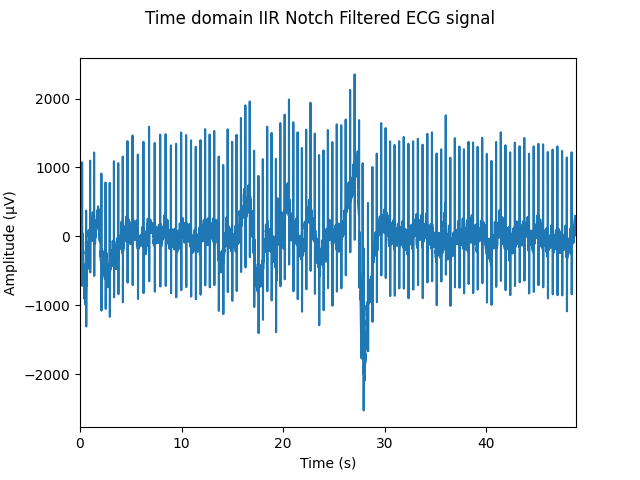
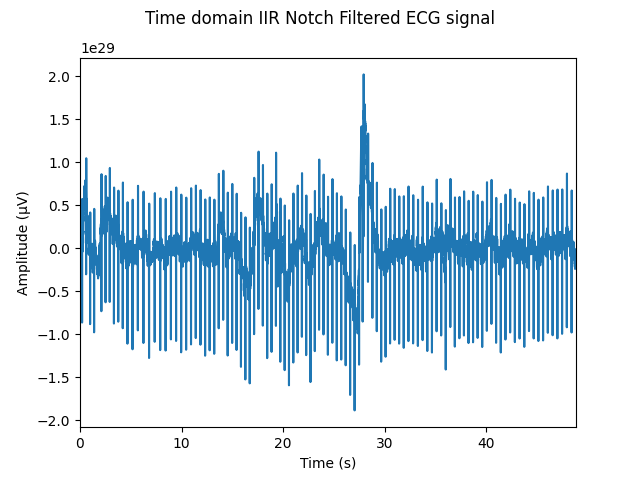
trynna get gain factor calculation to work correctly

diff --git a/main.py b/main.py
@@ -26,6 +26,10 @@ from signalPlots import *
 
 
 # Functions
+
+#
+# Get data information functions
+#
 def importData(filename):
     """Import data from a text file"""
 
@@ -65,6 +69,9 @@ def calcFreqSpectrum(samples, sample_rate):
 
 
 
+#
+# IIR filter functions
+#
 def computeIIRNotchCoefficients(notch_freq, notch_width, sampling_freq):
     """Compute and return the optimal notch filter coefficients, based on the notch frequency, the 3 dB width of the
     notch and the sampling frequency"""
@@ -95,19 +102,49 @@ def computeIIRNotchCoefficients(notch_freq, notch_width, sampling_freq):
 
 
 
-def createIIRNotchFilters(notch_freq_1, notch_freq_2, notch_width, sample_rate):
-    """Create notch filters, then combine them. The coefficients of the filters are returned"""
+def calculateGainFactor(numerator, denominator, passband_freq, sampling_freq):
+    """Calculate and return the coefficent needed to normalise the passband gain of an IIR filter to unity"""
 
-    # Create notch filters
-    numerator_1, denominator_1 = computeIIRNotchCoefficients(notch_freq_1, notch_width, sample_rate)  # Calculate notch filter coefficents for the first notch frequency
-    numerator_2, denominator_2 = computeIIRNotchCoefficients(notch_freq_2, notch_width, sample_rate)  # Calculate notch filter coefficents for the second notch frequency
+    # Calculate passband angle
+    angle = 2 * np.pi * passband_freq/sampling_freq
 
-    return numerator_1, denominator_1, numerator_2, denominator_2
+    # Initalise sum of the numerator/denominator at the passband_freq
+    numerator_sum = 0
+    denominator_sum = 0
+
+    # Calculate the value of the numerator and denominator by iterating through each tap
+    for delay_index in range(len(numerator)):
+
+        # Calculate the value of the numerator at tap
+        numerator_coeff = numerator[delay_index] # Extract numerator tap coefficent
+        numerator_sum += numerator_coeff * ((np.exp(1j * angle)) ** (-delay_index)) # Add transfer function value to numerator sum
+
+        # Calculate the value of the denominator at tap
+        denominator_coeff = denominator[delay_index] # Extract denominator tap coefficent
+        denominator_sum += denominator_coeff * ((np.exp(1j * angle)) ** (-delay_index))  # Add transfer function value to numerator sum
+
+    # Calculate gain factor
+    gain_factor = denominator_sum/numerator_sum # At unity gain: gain_factor * numerator_sum/denominator_sum = 1
+    gain_factor_real = np.real(gain_factor) # Take the real component of the gain factor
+    
+    return gain_factor_real
+
+
+
+
+def createIIRNotchFilter(notch_freq, notch_width, sample_rate):
+    """Create and return the coefficents of an IIR notch filter"""
+
+    numerator, denominator = computeIIRNotchCoefficients(notch_freq, notch_width, sample_rate)  # Calculate filter coefficents
+    gain_factor = calculateGainFactor(numerator, denominator, notch_freq, sample_rate) # Calculate gain factors needed to get unity gain in passband
+    normalised_numerator = np.array(numerator) * gain_factor  # Normalise passband of filters to unity gain
+
+    return normalised_numerator, denominator
 
 
 
 def applyIIRNotchFilters(numerator_1, denominator_1, numerator_2, denominator_2, data):
-    """Pass data through two cascaded notch filters and return the result after each filter"""
+    """Pass data through two cascaded IIR filters and return the result after each filter"""
 
     partially_filtered_data = lfilter(numerator_1, denominator_1, data) # Apply first filter to data
     filtered_data = lfilter(numerator_2, denominator_2, partially_filtered_data) # Apply second notch filter to data
@@ -127,38 +164,9 @@ def combineFilters(numerator_1, denominator_1, numerator_2, denominator_2):
 
 
 
-
-def calculateVariance(data):
-    """Calculates and returns the variance of a signal"""
-
-    # Calculate the variance of the signal X using: variance = E[X^2] - E[X]^2
-    expected_data_power = sum((np.square(data)))/len(data)  # Calculate E[X^2]
-    power_of_expected_data = np.square(sum(data)/len(data))  # Calculate E[X]^2
-    variance_data = expected_data_power - power_of_expected_data  # Calculate the variance of the data
-
-    return variance_data
-
-
-
-def calculateNoiseVariance(data, filtered_data):
-    """"Calculate the variance of the noise by comparing the filtered and unfiltered data. The variance of the noise
-    is approximated as the variance of the signal removed by the filter"""
-
-    # Turn data arrays into numpy arrays so that mathematical operations can be performed
-    np_data = np.array(data)
-    np_filtered_data = np.array(filtered_data)
-
-    # Calculate the variance of the removed noise by finding the variances of the filtered and unfiltered data
-    data_variance = calculateVariance(np_data) # Calculate the variance of the unfiltered data
-    filtered_data_variance = calculateVariance(np_filtered_data) # Calculat the variance of the filtered data
-    noise_data_variance = data_variance - filtered_data_variance # Calculate the variance of the removed noise
-
-    return noise_data_variance
-
-
 #
-# FIR Filter functions
-
+# FIR filter functions
+#
 def createWindowFilter(notches, sample_rate, notch_width, num_taps):
     """Compute and return the bandstop  window filter array for the specified notches. Adjusting the window type and band width changes attenuation."""
 
@@ -213,11 +221,45 @@ def createFreqSamplingFilter(notches, sample_rate, notch_width, gains, num_taps)
 
 
 
-def applyFIRFilter(filter_1, filter_2, samples):
-    """Apply two FIR filters in a cascaded fashion, and return each stage."""
+def applyFIRFilters(filter_1, filter_2, samples):
+    """Pass data through two cascaded FIR filters and return the result after each filter"""
+
     half_freq_filtered = lfilter(filter_1, 1, samples)
     full_freq_filtered = lfilter(filter_2, 1, half_freq_filtered)
+
     return half_freq_filtered, full_freq_filtered
+
+
+
+#
+# Noise Power (variance) calculations
+#
+def calculateVariance(data):
+    """Calculates and returns the variance of a signal"""
+
+    # Calculate the variance of the signal X using: variance = E[X^2] - E[X]^2
+    expected_data_power = sum((np.square(data)))/len(data)  # Calculate E[X^2]
+    power_of_expected_data = np.square(sum(data)/len(data))  # Calculate E[X]^2
+    variance_data = expected_data_power - power_of_expected_data  # Calculate the variance of the data
+
+    return variance_data
+
+
+
+def calculateNoiseVariance(data, filtered_data):
+    """"Calculate the variance of the noise by comparing the filtered and unfiltered data. The variance of the noise
+    is approximated as the variance of the signal removed by the filter"""
+
+    # Turn data arrays into numpy arrays so that mathematical operations can be performed
+    np_data = np.array(data)
+    np_filtered_data = np.array(filtered_data)
+
+    # Calculate the variance of the removed noise by finding the variances of the filtered and unfiltered data
+    data_variance = calculateVariance(np_data) # Calculate the variance of the unfiltered data
+    filtered_data_variance = calculateVariance(np_filtered_data) # Calculat the variance of the filtered data
+    noise_data_variance = data_variance - filtered_data_variance # Calculate the variance of the removed noise
+
+    return noise_data_variance
 
 
 
@@ -319,7 +361,8 @@ def main():
 
     # Define filter and data parameters
     sample_rate = 1024  # Sample rate of data (Hz)
-    cutoff = [57.755, 88.824] # Frequencies to attenuate (Hz), which were calculated based on previous graphical analysis
+    #cutoff = [57.755, 88.824] # Frequencies to attenuate (Hz), which were calculated based on previous graphical analysis
+    cutoff = [np.pi/2, np.pi/2]
     notch_width = 5 # 3 dB bandwidth of the notch filters (Hz)
     optimal_gains = [1, 0, 1]
     freq_gains = [1, 1, 0, 1, 1]
@@ -331,7 +374,8 @@ def main():
     base_freq, base_freq_data = calcFreqSpectrum(samples, sample_rate) # Calculate the frequency spectrum of the data
 
     # Create IIR Notch filters and use them to filter the ECG data
-    notch_num_1, notch_denom_1, notch_num_2, notch_denom_2 = createIIRNotchFilters(cutoff[0], cutoff[1], notch_width, sample_rate) # Calculate notch filter coefficents
+    notch_num_1, notch_denom_1 = createIIRNotchFilter(cutoff[0], notch_width, sample_rate) # Calculate the first notch filter's coefficents
+    notch_num_2, notch_denom_2 = createIIRNotchFilter(cutoff[1], notch_width, sample_rate) # Calculate the second notch filter's coefficents
     half_notched_samples, notched_samples = applyIIRNotchFilters(notch_num_1, notch_denom_1, notch_num_2, notch_denom_2, samples) # Apply cascaded notch filters to data
     notch_time = getTimeData(sample_rate, len(notched_samples)) # Create a time array based on notch filtered data
     notch_frequency, notch_freq_data = calcFreqSpectrum(notched_samples, sample_rate) # Calculate frequency of the IIR filtered ECG data
@@ -339,17 +383,17 @@ def main():
 
     # Create and apply FIR filters to data
     window_filter_1, window_filter_2 = createWindowFilter(cutoff, sample_rate, notch_width, num_FIR_taps) # Calculate window filter coefficents
-    half_windowed_samples, full_windowed_samples = applyFIRFilter(window_filter_1, window_filter_2, samples) # Apply window filter to data
+    half_windowed_samples, full_windowed_samples = applyFIRFilters(window_filter_1, window_filter_2, samples) # Apply window filter to data
     win_time = getTimeData(sample_rate, len(full_windowed_samples)) # Create a time array based on window filtered data
     win_frequency, win_freq_data = calcFreqSpectrum(full_windowed_samples, sample_rate) # Calculate frequency of the window IIR filtered ECG data
 
     optimal_filter_1, optimal_filter_2 = createOptimalFilter(cutoff, sample_rate, notch_width, optimal_gains, num_FIR_taps)
-    half_optimal_samples, full_optimal_samples = applyFIRFilter(optimal_filter_1, optimal_filter_2, samples)
+    half_optimal_samples, full_optimal_samples = applyFIRFilters(optimal_filter_1, optimal_filter_2, samples)
     opt_time = getTimeData(sample_rate, len(full_optimal_samples)) # Create a time array based on optimal filtered data
     opt_frequency, opt_freq_data = calcFreqSpectrum(full_optimal_samples, sample_rate) # Calculate frequency of the window IIR filtered ECG data
     
     freq_sampling_filter_1, freq_sampling_filter_2  = createFreqSamplingFilter(cutoff, sample_rate, notch_width, freq_gains, num_FIR_taps)
-    half_freq_samples, full_freq_samples = applyFIRFilter(freq_sampling_filter_1, freq_sampling_filter_2, samples)
+    half_freq_samples, full_freq_samples = applyFIRFilters(freq_sampling_filter_1, freq_sampling_filter_2, samples)
     freq_sampling_time = getTimeData(sample_rate, len(full_freq_samples)) # Create a time array based on optimal filtered data
     freq_s_frequency, freq_s_freq_data = calcFreqSpectrum(full_freq_samples, sample_rate) # Calculate frequency of the window IIR filtered ECG data
 
@@ -383,25 +427,25 @@ def main():
                FrequencySamplingECG, FrequencySamplingECGSpectrum, FrequencySamplingFilterResponse] # The figures to save, which must be in the same order as figure_names
     saveFigures(figures, figures_filename, figure_names) # Save the figures to an output folder in the current directory
 
-    # Calculate the variance of data
+    # Calculate the variance of IIR filtered data
     notched_noise_variance = calculateNoiseVariance(samples, notched_samples)  # Calculate the variance of the noise removed by the IIR notch filters
     first_notched_noise_variance = calculateNoiseVariance(samples, half_notched_samples)  # Calculate the variance of the noise removed by the first IIR notch filter
     second_notched_noise_variance = calculateNoiseVariance(half_notched_samples, notched_samples)  # Calculate the variance of the noise removed by the second IIR notch filter
 
+    # Calculate the variance of window filtered data
     window_noise_variance = calculateNoiseVariance(samples, full_windowed_samples)  # Calculate the variance of the noise removed by the 
     first_window_noise_variance = calculateNoiseVariance(samples, half_windowed_samples)  # Calculate the variance of the noise removed by the 
     second_window_noise_variance = calculateNoiseVariance(half_windowed_samples, full_windowed_samples)  # Calculate the variance of the noise removed by the 
 
+    # Calculate the variance of optimal filtered data
     optimal_noise_variance = calculateNoiseVariance(samples, full_optimal_samples)  # Calculate the variance of the noise removed by the 
     first_optimal_noise_variance = calculateNoiseVariance(samples, half_optimal_samples)  # Calculate the variance of the noise removed by the 
     second_optimal_noise_variance = calculateNoiseVariance(half_optimal_samples, full_optimal_samples)  # Calculate the variance of the noise removed by the 
 
+    # Calculate the variance of frequency sampling filtered data
     freq_sampling_noise_variance = calculateNoiseVariance(samples, full_freq_samples)  # Calculate the variance of the noise removed by the 
     first_freq_sampling_noise_variance = calculateNoiseVariance(samples, half_freq_samples)  # Calculate the variance of the noise removed by the 
     second_freq_sampling_noise_variance = calculateNoiseVariance(half_freq_samples, full_freq_samples)  # Calculate the variance of the noise removed by the
-
-
-
 
     # Save noise power to a .txt file
     noise_power_data = {'IIR notch filters': notched_noise_variance,
@@ -418,9 +462,9 @@ def main():
                         'second frequency sampling filter': second_freq_sampling_noise_variance
                         }  # Create a dictionary of the filter name and its noise power
     saveNoisePowerData(noise_power_data, noise_power_output_filename)  # Save the data about each filter to a file
+
     #plt.show()
     
-
 
 
 # Run program if called

diff --git a/signalPlots.py b/signalPlots.py
@@ -89,7 +89,8 @@ def plotIIRNotchFilterResponse(numuerator, denominator, f_samp):
     plt.xlabel("Frequency (Hz)")
 
     # Plot magnitude response
-    IIR_ax1.plot(freq, 20 * np.log10(abs(response))) # Plot magnitude in dB vs Hz
+    #IIR_ax1.plot(freq, 20 * np.log10(abs(response))) # Plot magnitude in dB vs Hz
+    IIR_ax1.plot(freq, 20 * abs(response))  # Plot magnitude Hz
     IIR_ax1.set_ylabel("Amplitude (dB)")
     IIR_ax1.set_xlim(freq[0], freq[-1])  # Limit the x axis from 0 to Nyquist frequency
 
